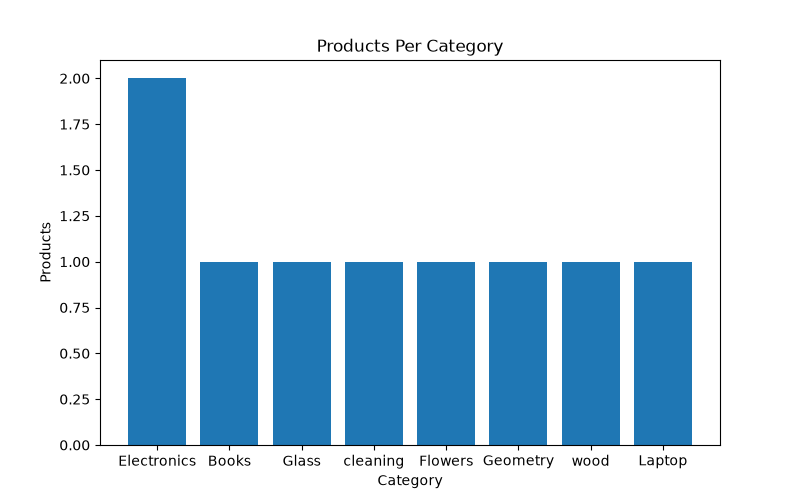
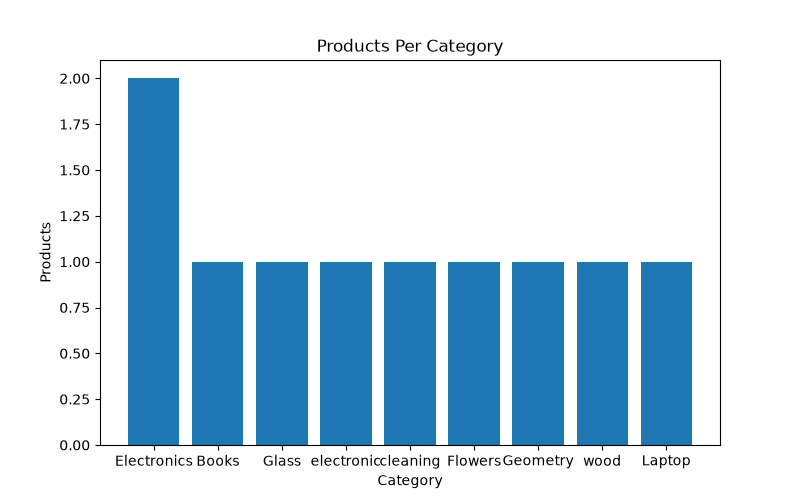
Used Mailjet-API

Changed region(s): [[0.125, 0.15, 0.875, 0.93]]

diff --git a/backend/app/services/email_service.py b/backend/app/services/email_service.py
@@ -1,18 +1,32 @@
 import os
-import smtplib
-from email.mime.text import MIMEText
-from email.mime.multipart import MIMEMultipart
+import httpx
+from dotenv import load_dotenv
 
-EMAIL = os.getenv("EMAIL_ADDRESS")
-PASSWORD = os.getenv("EMAIL_PASSWORD")
-SMTP_SERVER = os.getenv("SMTP_SERVER")
-SMTP_PORT = int(os.getenv("SMTP_PORT"))
+load_dotenv()
+
+MAILJET_API_KEY = os.getenv("MAILJET_API_KEY")
+MAILJET_SECRET_KEY = os.getenv("MAILJET_SECRET_KEY")
+SENDER_EMAIL = os.getenv("MAILJET_SENDER_EMAIL")
+SENDER_NAME = os.getenv("MAILJET_SENDER_NAME")
 
 
 def send_otp_email(receiver_email, otp):
-    subject = "SmartShop AI - Password Reset OTP"
+    url = "https://api.mailjet.com/v3.1/send"
 
-    body = f"""
+    payload = {
+        "Messages": [
+            {
+                "From": {
+                    "Email": SENDER_EMAIL,
+                    "Name": SENDER_NAME
+                },
+                "To": [
+                    {
+                        "Email": receiver_email
+                    }
+                ],
+                "Subject": "SmartShop AI - Password Reset OTP",
+                "TextPart": f"""
 Hello,
 
 We received a request to reset your SmartShop AI account password.
@@ -28,16 +42,20 @@ If you did not request this password reset, please ignore this email.
 Regards,
 SmartShop AI Support Team
 """
+            }
+        ]
+    }
 
-    message = MIMEMultipart()
-    message["From"] = f"SmartShop AI Support <{EMAIL}>"
-    message["To"] = receiver_email
-    message["Subject"] = subject
+    response = httpx.post(
+        url,
+        auth=(MAILJET_API_KEY, MAILJET_SECRET_KEY),
+        json=payload,
+        timeout=30
+    )
 
-    message.attach(MIMEText(body, "plain"))
+    if response.status_code != 200:
+        print("Mailjet Error:")
+        print(response.text)
+        raise Exception("Failed to send OTP email")
 
-    server = smtplib.SMTP(SMTP_SERVER, SMTP_PORT)
-    server.starttls()
-    server.login(EMAIL, PASSWORD)
-    server.send_message(message)
-    server.quit()
+    print("OTP Email Sent Successfully")
